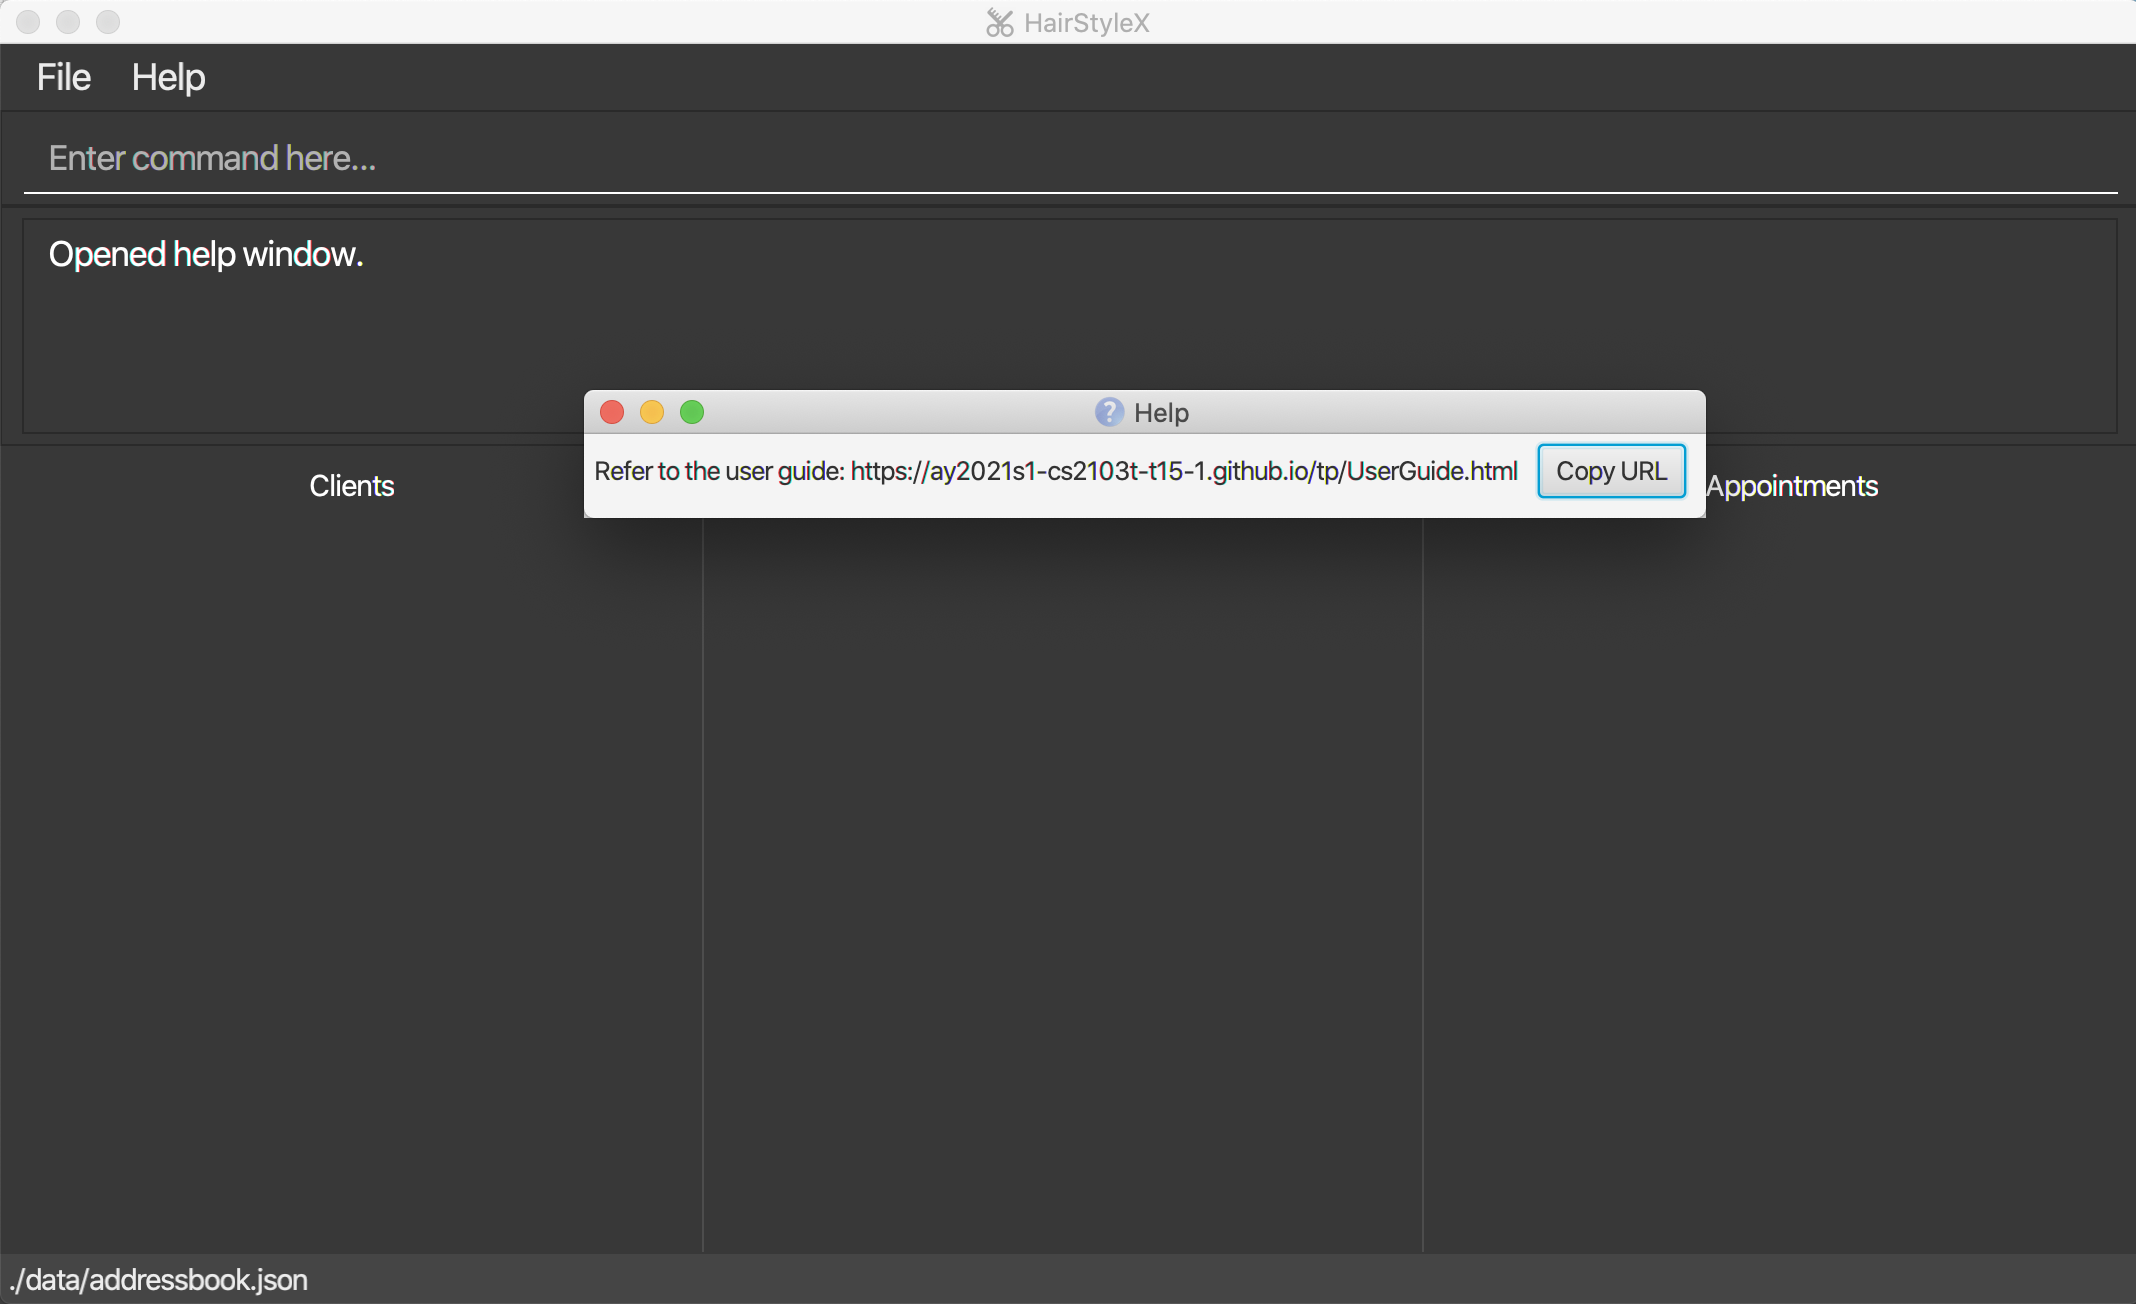
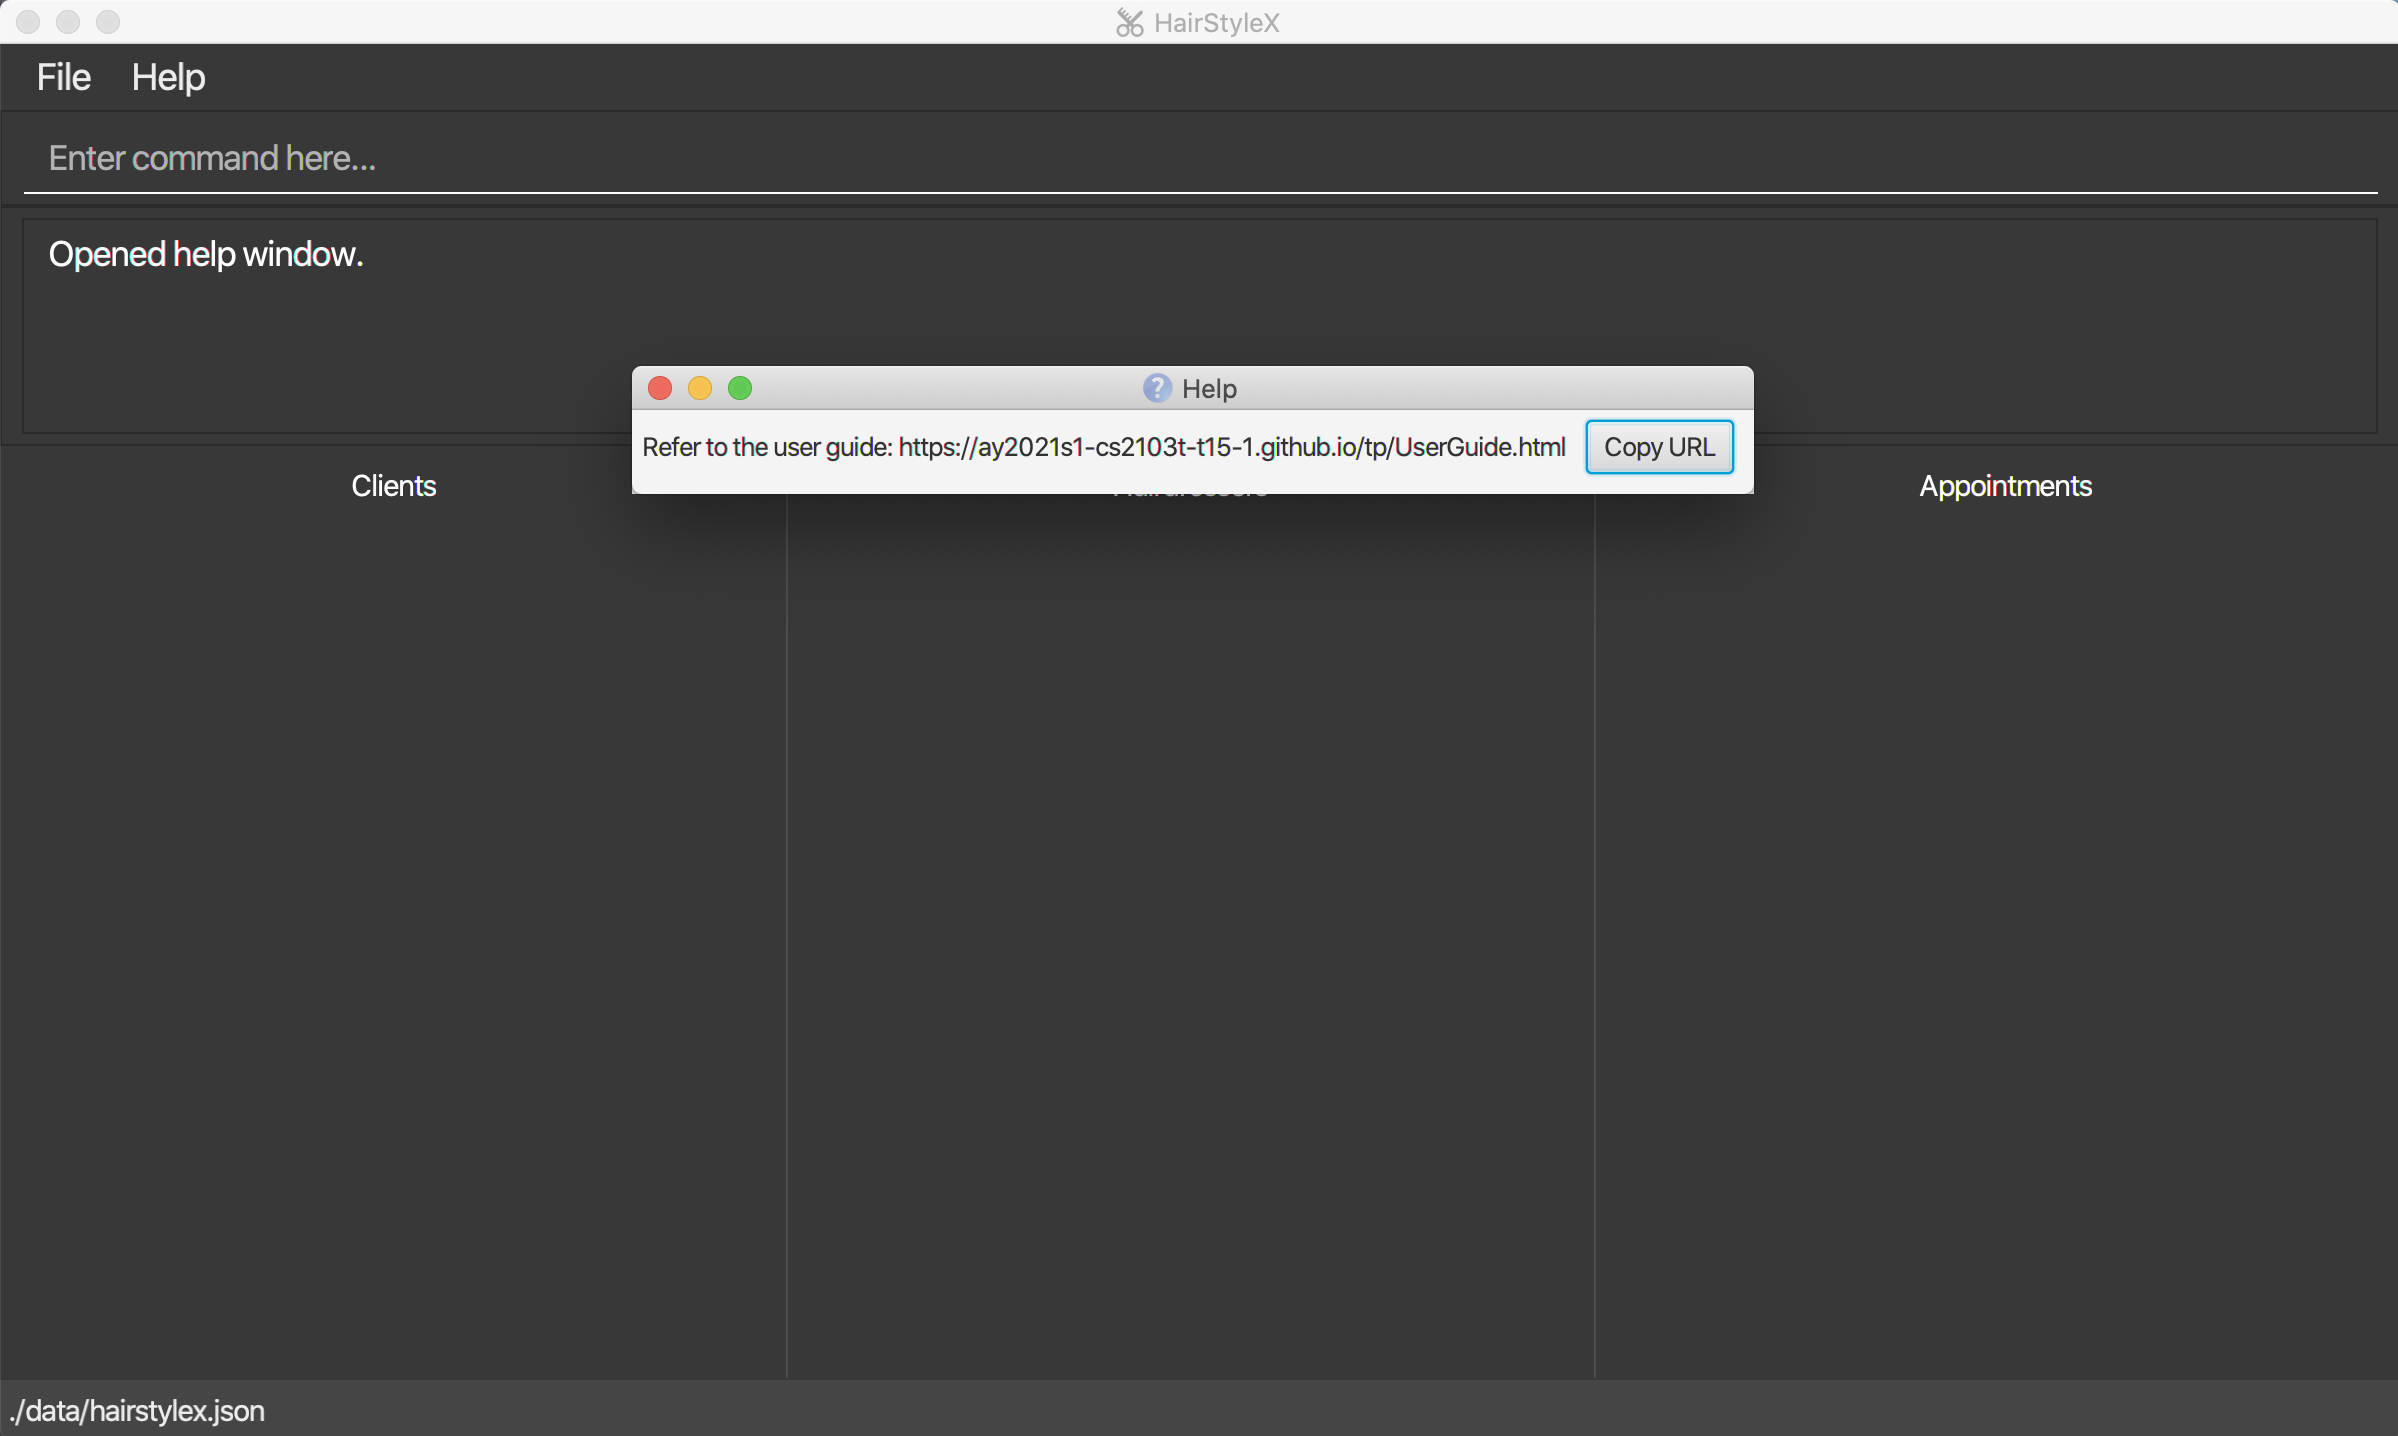
Change clear command image

diff --git a/src/main/java/seedu/address/logic/commands/ClearCommand.java b/src/main/java/seedu/address/logic/commands/ClearCommand.java
@@ -11,7 +11,7 @@ import seedu.address.model.Model;
 public class ClearCommand extends Command {
 
     public static final String COMMAND_WORD = "clear";
-    public static final String MESSAGE_SUCCESS = "Address book has been cleared!";
+    public static final String MESSAGE_SUCCESS = "HairStyleX has been cleared!";
 
 
     @Override

diff --git a/docs/UserGuide.md b/docs/UserGuide.md
@@ -13,7 +13,7 @@ title: User Guide
 ## 1. Introduction
 (Contributed by Tan Yu Li, James)
 
-Welcome to the User Guide of HairStyleX.
+Welcome to the User Guide of **HairStyleX**.
  
 Today, many budding hair salons still resort to using pen and paper to keep track of their appointments, clients, and hairdressers due to their tight budget. While suitable for a small client base, this is not sustainable in the long run as their client base increases, since recording and searching for information manually would be slow and prone to human errors. Our salon management application **HairStyleX** is designed to make this process much easier for salon managers who have at least a laptop at their front desk.
 
@@ -175,7 +175,7 @@ The commands in this section allow you to perform operations on the entire syste
 
 #### 4.1.1 Viewing help : `help`
 
-You can use this command to view the user guide, which contains information about all the instructions in HairStyleX.
+You can use this command to view the user guide, which contains information about all the instructions in **HairStyleX**.
 
 <div markdown="block" class="alert alert-info">
 
@@ -189,7 +189,7 @@ You can use this command to view the user guide, which contains information abou
 
 **Example:**
 
-In this example, you want to view the user guide to get information about the various commands in HairStyleX.
+In this example, you want to view the user guide to get information about the various commands in **HairStyleX**.
 
 <div markdown="block" class="alert alert-white">
 
@@ -197,7 +197,7 @@ Requesting for help:
 
 1. Type `help` into the *Command Box*.
 1. Press `Enter` to execute.
-1. A new window will appear. Click on the `Copy URL` button to copy the URL containing the HairStyleX user guide.
+1. A new window will appear. Click on the `Copy URL` button to copy the URL containing the **HairStyleX** user guide.
 ![HelpOutcome](images/general-command/Help.png)
 1. Open your preferred web browser on your computer and paste the link into the address bar.
 1. Press `Enter` to load the website
@@ -205,17 +205,17 @@ Requesting for help:
 Outcome:
 
 1. Your browser will show the user guide
-1. You can now access information about all commands in HairStyleX via the browser
+1. You can now access information about all commands in **HairStyleX** via the browser
 
 </div>
 
 #### 4.1.2 Clearing all entries : `clear`
 
-You can use this command to clear all entries in HairStyleX.
+You can use this command to clear all entries in **HairStyleX**.
 
 <div markdown="block" class="alert alert-warning">
 
-**:warning: This command will delete all data in HairStyleX permanently. Please proceed with caution.**
+**:warning: This command will delete all data in **HairStyleX** permanently. Please proceed with caution.**
 
 </div>
 
@@ -225,7 +225,7 @@ You can use this command to clear all entries in HairStyleX.
 
 **Example:**
 
-In this example, you want to clear all current data and start with an empty HairStyleX.
+In this example, you want to clear all current data and start with an empty **HairStyleX**.
 
 <div markdown="block" class="alert alert-white">
 
@@ -245,7 +245,7 @@ Outcome:
 
 #### 4.1.3 Exiting from the application: `exit`
 
-You can use this command to exit HairStyleX.
+You can use this command to exit **HairStyleX**.
 
 <div markdown="block" class="alert alert-info">
 
@@ -259,7 +259,7 @@ You can use this command to exit HairStyleX.
 
 **Example:**
 
-In this example, you want to exit HairStyleX.
+In this example, you want to exit **HairStyleX**.
 
 <div markdown="block" class="alert alert-white">
 
@@ -359,7 +359,7 @@ You can use this command to add a client to the database.
 
 * Likewise, a client with the same name and phone number as an existing hairdresser is also considered as a duplicate.
 
-* You are not allowed to enter duplicates into HairStyleX.
+* You are not allowed to enter duplicates into **HairStyleX**.
 
 </div>
 
@@ -436,7 +436,7 @@ You can use this command to edit an existing client in the database.
 
 * Likewise, a client with the same name and phone number as an existing hairdresser is also considered as a duplicate.
 
-* You are not allowed to edit a client such that their updated information results in duplicates in HairStyleX.
+* You are not allowed to edit a client such that their updated information results in duplicates in **HairStyleX**.
 
 </div>
 
@@ -583,7 +583,7 @@ You can use this command to add a hairdresser to the database.
 
 * Likewise, a hairdresser with the same name and phone number as an existing client is also considered as a duplicate.
 
-* You are not allowed to enter duplicates in HairStyleX.
+* You are not allowed to enter duplicates in **HairStyleX**.
 
 </div>
 
@@ -660,7 +660,7 @@ You can use this command to edit an existing hairdresser in the database.
 
 * Likewise, a hairdresser with the same name and phone number as an existing client is also considered as a duplicate.
 
-* You are not allowed to edit a hairdresser such that their updated information results in duplicates in HairStyleX.
+* You are not allowed to edit a hairdresser such that their updated information results in duplicates in **HairStyleX**.
 
 </div>
 
@@ -998,7 +998,7 @@ longer commands.
 
 Parameter Name | Description
 --------|------------------
-`OLD_SHORTCUT` | The name of an original command provided by HairStyleX.<br> E.g. `add_client`, `edit_appt`, etc.
+`OLD_SHORTCUT` | The name of an original command provided by **HairStyleX**.<br> E.g. `add_client`, `edit_appt`, etc.
 `NEW_SHORTCUT` | Your preferred shortcut name for the `OLD_SHORTCUT`. It should only contain at most 20 alphanumeric characters, hyphens `-`, or underscores `_`.<br> E.g. `a_c`, `ea`, `a-h`, etc.
 
 #### 4.5.2 Add a new shortcut : `add_shortcut`
@@ -1077,7 +1077,7 @@ You can use this command to show all your shortcuts.
 (Contributed by Tan Yu Li, James)
 
 **Q**: How do I transfer my data to another Computer?<br>
-**A**: Install the app in the other computer and overwrite the empty data file it creates with the file that contains the data of your previous HairstyleX home folder.
+**A**: Install the app in the other computer and overwrite the empty data file it creates with the file that contains the data of your previous **HairStyleX** home folder.
 
 **Q**: Why aren’t I allowed to edit my date or time for the appointment?<br>
 **A**: Editing the date or time may cause conflicts in your schedule if the change results in two appointments with the same hairdresser occuring concurrently. However, we are working on a feature that will allow you to resolve these conflicts in the upcoming version of **HairStyleX**.

diff --git a/docs/DeveloperGuide.md b/docs/DeveloperGuide.md
@@ -457,8 +457,6 @@ Priorities: High (must have) - `* * *`, Medium (nice to have) - `* *`, Low (unli
 | `* * *`  | new user                                   | navigate the UI easily         | learn how to use the app quickly                                             |
 
 
-*{More to be added}*
-
 ### Use cases
 
 (For all use cases below, the **System** is the `HairStyleX` application, and the **Actor** is the `user`, unless specified otherwise)
@@ -592,8 +590,6 @@ it means that the use case can be performed similarly on both a `hairdresser` an
 2.  Should be able to hold up to 1000 hairdressers and clients without a noticeable sluggishness in performance for typical usage.
 3.  A user with above average typing speed for regular English text (i.e. not code, not system admin commands) should be able to accomplish most of the tasks faster using commands than using the mouse.
 4.  There is no need for internet connection
-
-*{More to be added}*
 
 ### Glossary
 
